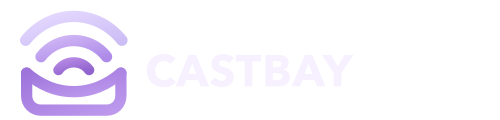
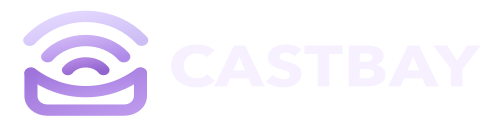
Enlarge English wordmark and trim whitespace

Changed region(s): [[0.03, 0.075, 0.3, 0.975], [0.06, 0.925, 0.09, 0.975]]

diff --git a/branding/castbay-signal-final/generate.py b/branding/castbay-signal-final/generate.py
@@ -84,7 +84,7 @@ def vertical_zh_tw(palette):
 
 def horizontal_en(palette):
     return f"""{mark('translate(10 14) scale(1.25)')}
-<text x="177" y="105" fill="{palette['primary_text']}" font-family="Avenir Next, Inter, sans-serif" font-size="54" font-weight="650" letter-spacing="1">CASTBAY</text>"""
+<text x="177" y="105" fill="{palette['primary_text']}" font-family="Avenir Next, Inter, sans-serif" font-size="70" font-weight="650" letter-spacing="1">CASTBAY</text>"""
 
 
 def horizontal_zh(palette):
@@ -111,7 +111,7 @@ LAYOUTS = {
     "vertical-en": ("0 0 1024 1024", vertical_en),
     "vertical-zh-TW": ("0 0 1024 1024", vertical_zh_tw),
     "horizontal-zh": ("0 0 610 146", horizontal_zh),
-    "horizontal-en": ("0 0 610 146", horizontal_en),
+    "horizontal-en": ("0 0 525 146", horizontal_en),
     "horizontal-zh-TW": ("0 0 610 146", horizontal_zh_tw),
     "app-icon": ("0 0 1024 1024", app_icon),
     "adaptive-foreground": ("0 0 1024 1024", lambda palette: mark("translate(128 220) scale(6)")),
